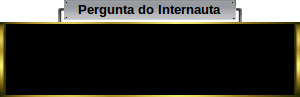
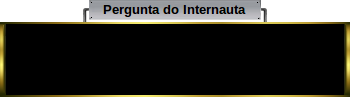
- final comment box overlay position adjustments - add counter for remaining character on comment input box

diff --git a/js/main.js b/js/main.js
@@ -308,22 +308,41 @@ function toggleDisplaycommentBox() {
   }
 }
 
+function updateCommentCounter() {
+  var comment = getElement('input-comment');
+  var counter = getElement('comment-box-counter');
+  counter.textContent = commentBox.getLineLength() - comment.value.length;
+
+  console.log('logs');
+  console.log(comment.value.length);
+  console.log(commentBox.getLineLength());
+}
+
+function initCommentInputs() {
+  var comment = getElement('input-comment');
+  comment.maxLength = commentBox.getLineLength();
+  var counter = getElement('comment-box-counter');
+  counter.textContent = commentBox.getLineLength() - comment.value.length;
+}
+
 function bindEvents() {
-  document.onkeydown = function(e) { handleKeyStroke(e); }
-  getElement('hide-app').onclick = function() { toggleDisplayApp(); }
-  getElement('new-game').onclick = function() { newMatch(); }
-  getElement('update-names').onclick = function() { updateNames(); }
-  getElement('score-player1').onclick = function() { scorePointForPlayer('1'); }
-  getElement('score-player2').onclick = function() { scorePointForPlayer('2'); }
-  getElement('undo').onclick = function() { undo(); }
-  getElement('load-logo').onclick = function() { drawLogo(); }
-  getElement('update-set').onclick = function() { updateSetLength(); }
-  getElement('update-game').onclick = function() { updateGameLength(); }
-  getElement('show-comment').onclick = function() { toggleDisplaycommentBox(); }
+  document.onkeydown = function(e) { handleKeyStroke(e); };
+  getElement('hide-app').onclick = function() { toggleDisplayApp(); };
+  getElement('new-game').onclick = function() { newMatch(); };
+  getElement('update-names').onclick = function() { updateNames(); };
+  getElement('score-player1').onclick = function() { scorePointForPlayer('1'); };
+  getElement('score-player2').onclick = function() { scorePointForPlayer('2'); };
+  getElement('undo').onclick = function() { undo(); };
+  getElement('load-logo').onclick = function() { drawLogo(); };
+  getElement('update-set').onclick = function() { updateSetLength(); };
+  getElement('update-game').onclick = function() { updateGameLength(); };
+  getElement('show-comment').onclick = function() { toggleDisplaycommentBox(); };
+  getElement('input-comment').onkeyup = function() { updateCommentCounter(); };
 }
 
 function main() {
   bindEvents();
   initZipElements();
+  initCommentInputs();
 }
 main();

diff --git a/index.html b/index.html
@@ -54,9 +54,9 @@
 </div>
 
 <div id="app-controls" style="margin-top: 10px;">
-	<input type="button" class="button" id="hide-app" value="Hide App"
+  <input type="button" class="button" id="hide-app" value="Hide App"
          style="width: 80px;" />
-	<input type="button" class="button" id="new-game" value="New Match" />
+  <input type="button" class="button" id="new-game" value="New Match" />
 </div>
 </center>
 
@@ -116,10 +116,14 @@
           <td>Netzen:</td>
           <td><input id="input-netzen" type="text" /></td>
         </tr>
+        <tr>
+          <td>Remaining</td>
+          <td>
+            <div id="comment-box-counter">You shouldn't be seeing this text!</div>
+            <input id="show-comment" class="button" type="button" value="Show" style="width: 62px;"/>
+          </td>
+        </tr>
       </table>
-      <center>
-        <input id="show-comment" class="button" type="button" value="Show" style="width: 62px;"/>
-      </center>
     </div>
   </div>
 

diff --git a/css/style.css b/css/style.css
@@ -66,8 +66,8 @@ input[type=checkbox] {
 }
 
 .button:active {
-	background: -webkit-gradient(linear, left top, left bottom, from(#aaa), to(#333));
-	background: -moz-linear-gradient(bottom, #ddd, #aaa);
+  background: -webkit-gradient(linear, left top, left bottom, from(#aaa), to(#333));
+  background: -moz-linear-gradient(bottom, #ddd, #aaa);
 }
 
 .button:hover {
@@ -266,6 +266,16 @@ input[type=checkbox] {
 #comment-box-pannel input[type=text] {
   width: 205px;
   text-align: left;
+}
+
+#comment-box-counter {
+  display: inline-block;
+  border: solid 1px #b9b9b9;
+  border-radius: 2px;
+  padding: 3px;
+  text-align: center;
+  width: 20px;
+  margin-right: 40px;
 }
 
 #setup-pannel input[type=button] {

diff --git a/js/comments.js b/js/comments.js
@@ -7,15 +7,15 @@ function CommentBox() {
     'comm2' : {},
     'name' : {},
   };
-  this.bkgScale = 0.34;
-  this.bkgXPos = 0.325;
-  this.bkgYPos = 0.39;
+  this.bkgScale = 0.196;
+  this.bkgXPos = 0.295;
+  this.bkgYPos = 0.395;
 
-  this.commXpos = 427;
+  this.commXpos = 389;
   this.nameXPos = 620;
 
-  this.linesYPos = [316, 328, 340, 352];
-  this.lineMaxLength = 40;
+  this.linesYPos = [317, 329, 341, 353];
+  this.lineMaxLength = 44;
 
   this.initBackground();
 }
@@ -105,3 +105,6 @@ CommentBox.prototype.setNetzen = function(netzen) {
   this.redrawOverlay('name', img);
 };
 
+CommentBox.prototype.getLineLength = function () {
+  return this.lineMaxLength;
+};
